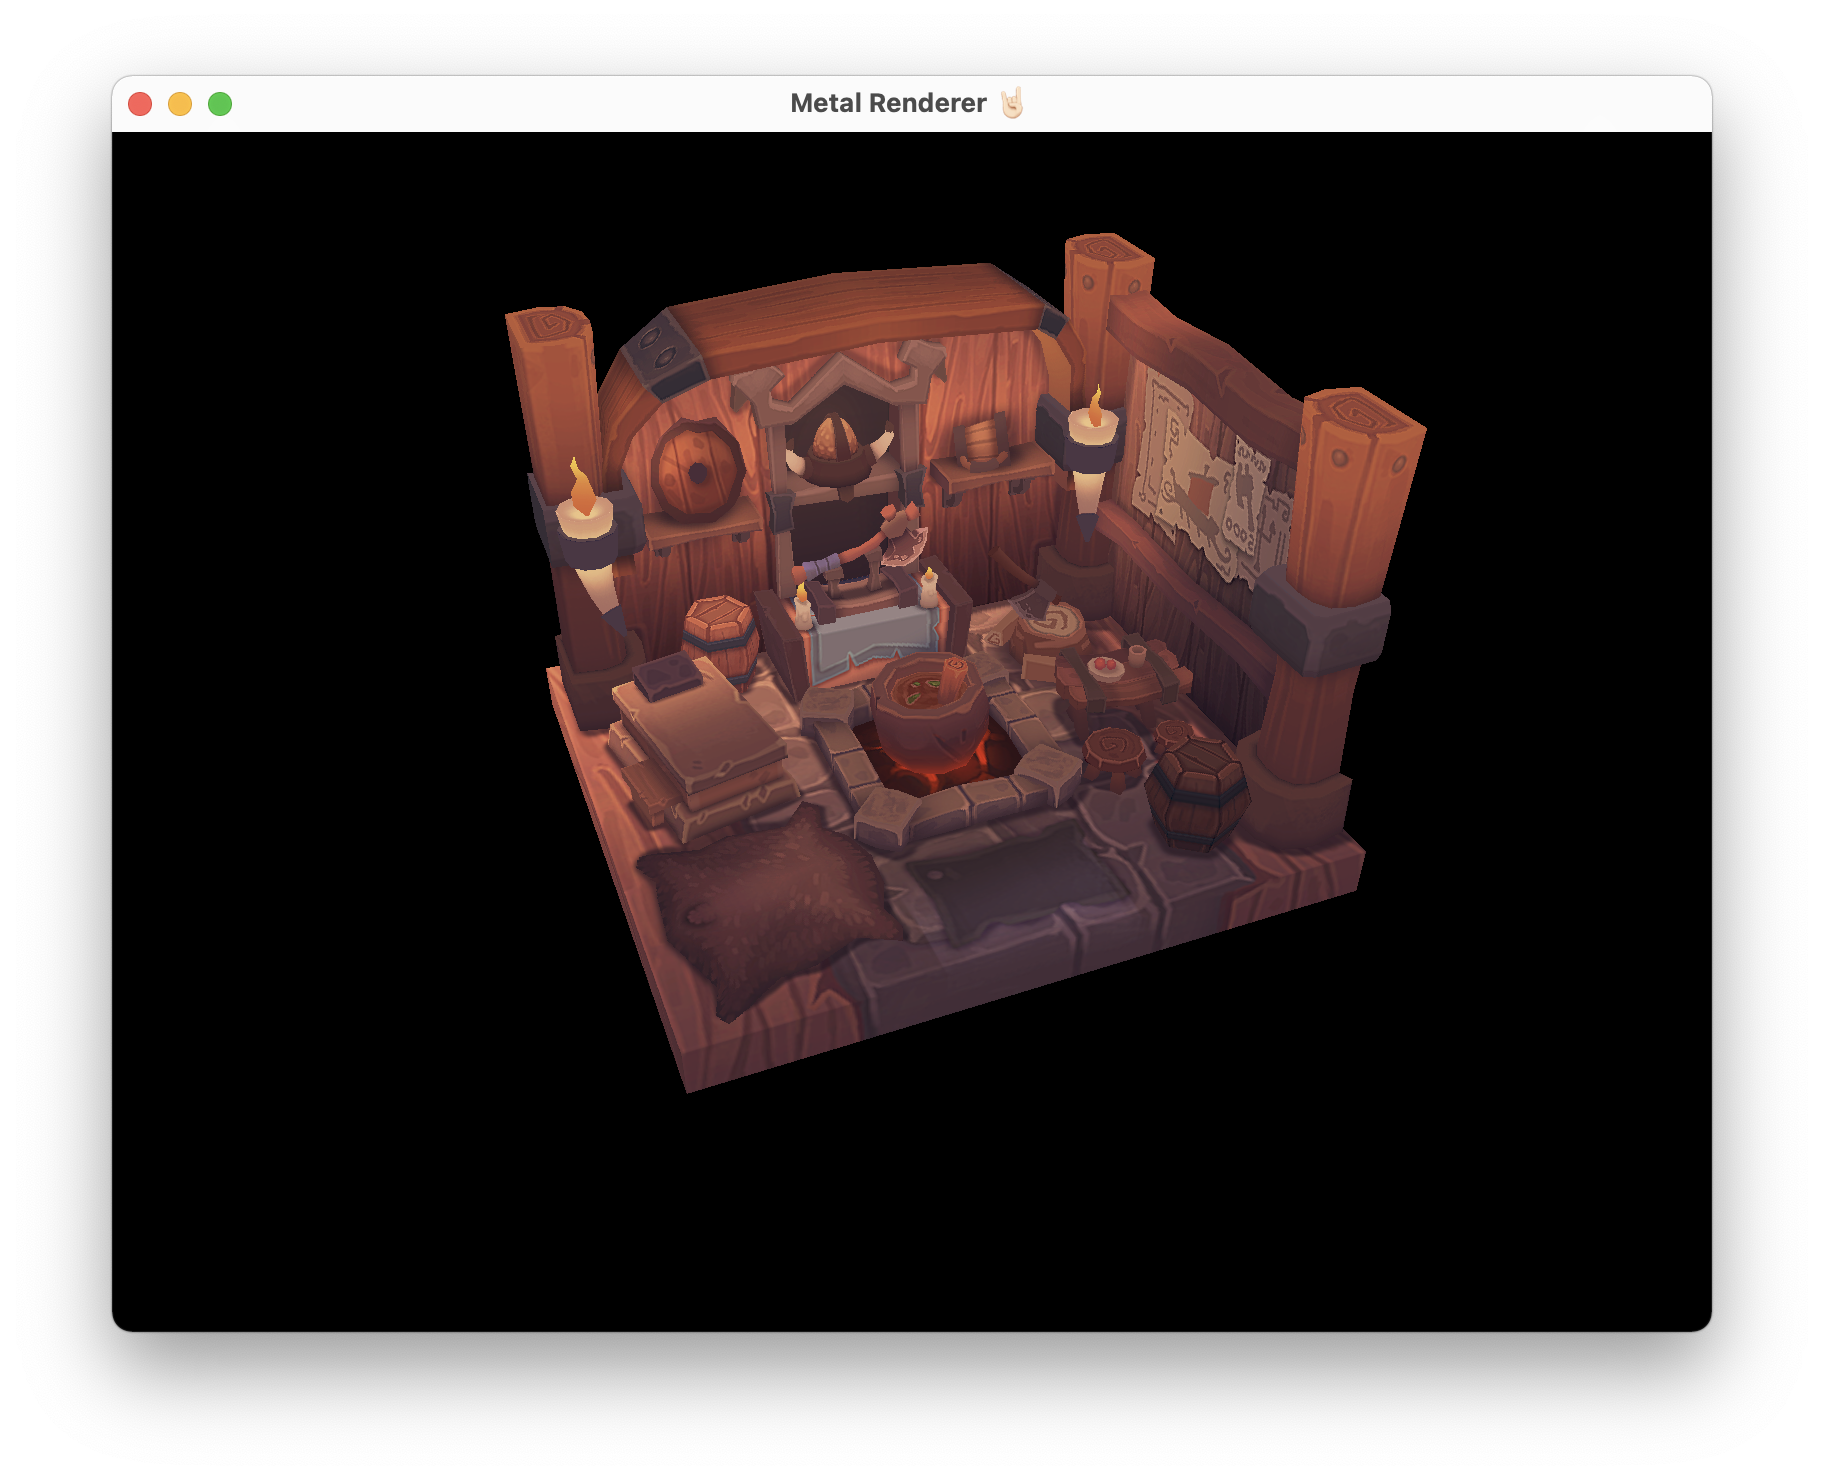
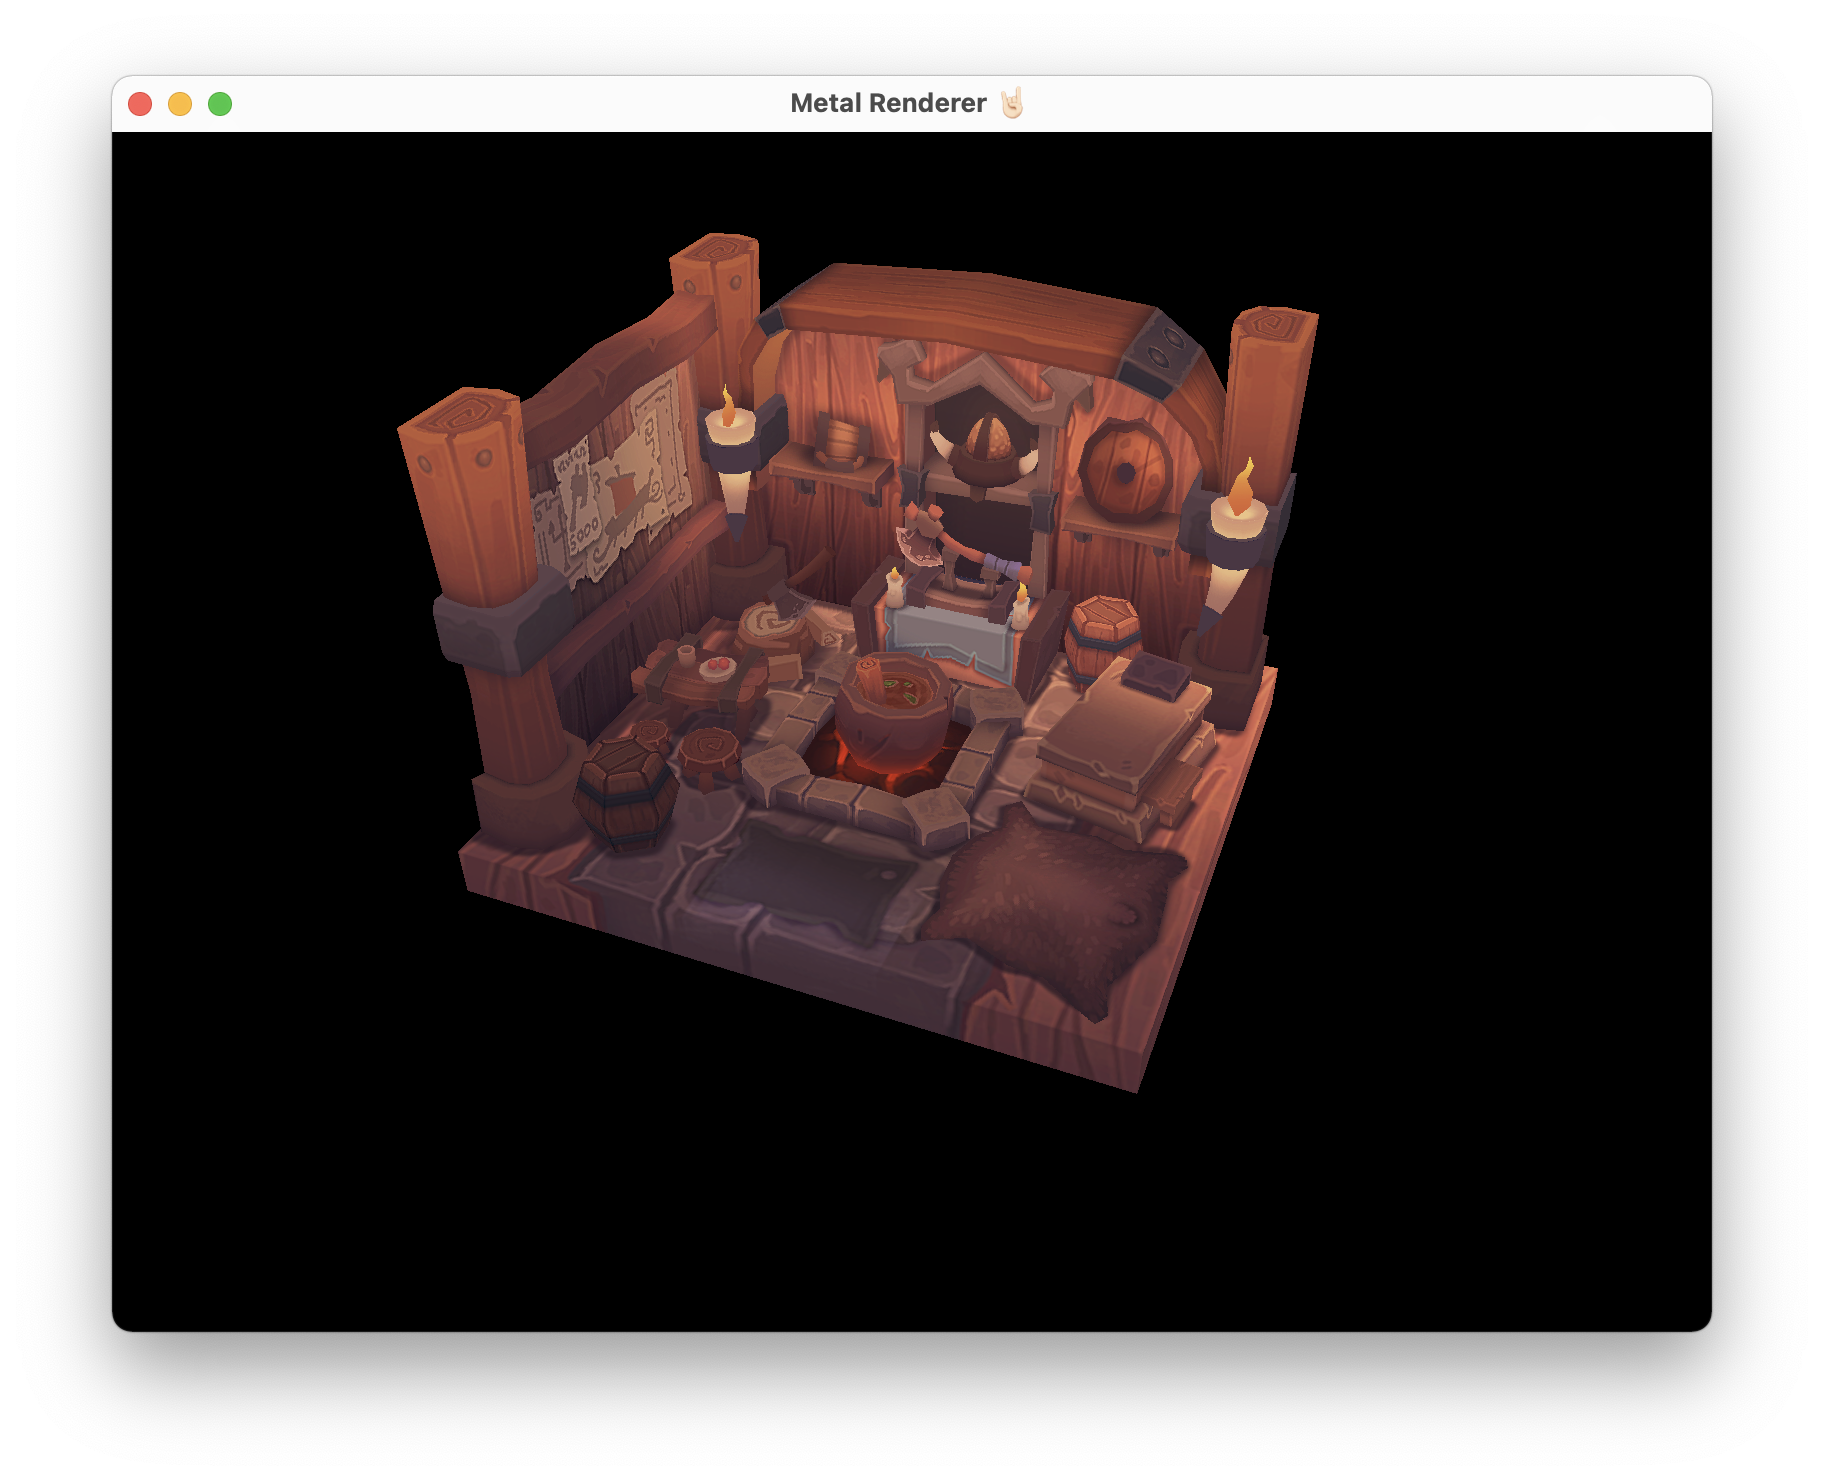
Flip handedness for the viking room model

Changed region(s): [[0.2188, 0.1554, 0.7812, 0.7459]]

diff --git a/Sources/SteelPhoenixEngine/Renderer.swift b/Sources/SteelPhoenixEngine/Renderer.swift
@@ -64,6 +64,7 @@ public class Renderer : NSObject
                                             withExtension: TEST_MODEL_EXTENSION)
         {
             mModel = Model(device: mtkView.device!, url: modelURL)
+            mModel?.flipHandedness()
         }
         else
         {
@@ -112,9 +113,9 @@ public class Renderer : NSObject
         // TODO: Use Constant Buffer?
         var ubo   = UniformBufferObject()
         ubo.model = Matrix4x4.makeRotation(radians: SLA.TAU * 0.75, axis: Vector4(x: 0, y: 1, z: 0, w:0)) *
-                    Matrix4x4.identity()
+                    (mModel?.mModelMatrix ?? Matrix4x4.identity())
 
-        ubo.view  = Matrix4x4.lookAtLH(eye: Vector3(x:-1, y:2, z:-2.5),
+        ubo.view  = Matrix4x4.lookAtLH(eye: Vector3(x:1, y:2, z:-2.5),
                                        target: Vector3.zero(),
                                        upAxis: WORLD_UP)
 
@@ -133,7 +134,7 @@ public class Renderer : NSObject
         let commandEncoder = commandBuffer.makeRenderCommandEncoder(descriptor: mView.currentRenderPassDescriptor!)
         commandEncoder?.setRenderPipelineState(mPipelineState)
         commandEncoder?.setDepthStencilState(mDepthStencilState)
-        commandEncoder?.setFrontFacing(.clockwise) // TODO: According to model?
+        commandEncoder?.setFrontFacing(mModel?.mWinding ?? .clockwise)
         commandEncoder?.setCullMode(.back)
         commandEncoder?.setVertexBuffer(vertexBuffer, offset: 0, index: VERTEX_BUFFER_INDEX)
         commandEncoder?.setVertexBuffer(uniformBuffer, offset: 0, index: UNIFORM_BUFFER_INDEX)

diff --git a/Sources/SteelPhoenixEngine/Model.swift b/Sources/SteelPhoenixEngine/Model.swift
@@ -1,10 +1,14 @@
 import MetalKit
 import SimpleLogs
+import SLA
 
 public class Model
 {
-    let mVertexDescriptor: MTLVertexDescriptor
-    let mMeshes:           [MTKMesh]
+    let mVertexDescriptor:         MTLVertexDescriptor
+    let mMeshes:                   [MTKMesh]
+
+    private(set) var mModelMatrix: Matrix4x4
+    private(set) var mWinding:     MTLWinding
 
     init(device: MTLDevice, url: URL)
     {
@@ -12,6 +16,27 @@ public class Model
         mMeshes = Self.loadMeshes(device: device,
                                   url: url,
                                   vertexDescriptor: mVertexDescriptor)
+
+        mModelMatrix = Matrix4x4.identity()
+        mWinding     = .clockwise
+    }
+
+    public func flipHandedness()
+    {
+        var mirror = Matrix4x4.identity()
+        mirror.set(col: 2, row: 2, val: -1)
+
+        mModelMatrix = mModelMatrix * mirror
+
+        switch mWinding
+        {
+            case .clockwise:
+                mWinding = .counterClockwise
+            case .counterClockwise:
+                mWinding = .clockwise
+            default:
+                break
+        }
     }
 
     static private func getNewVertexDescriptor() -> MTLVertexDescriptor
